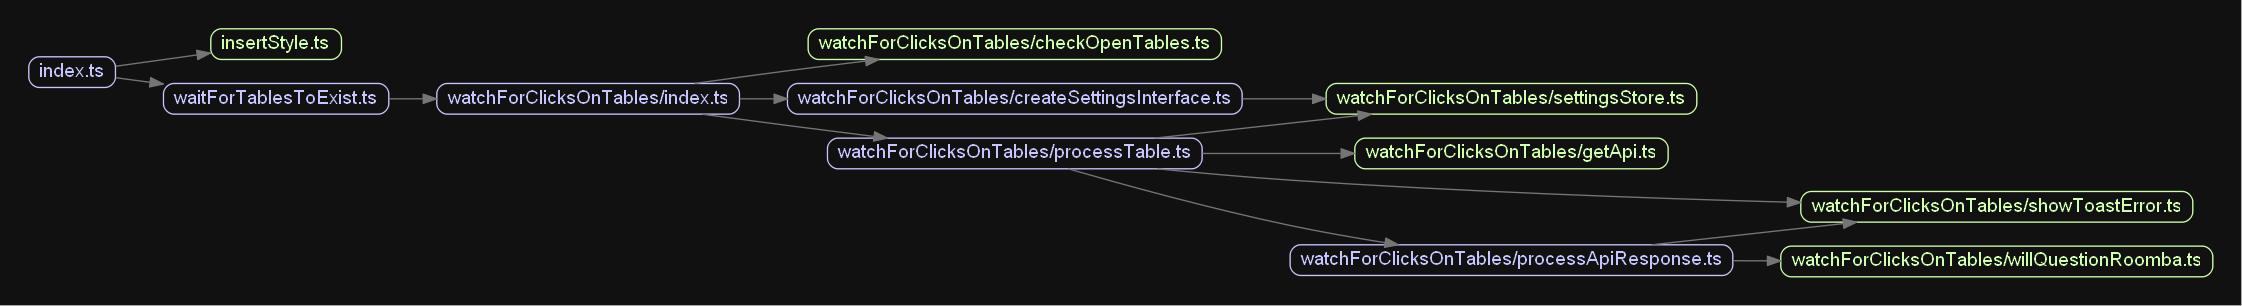
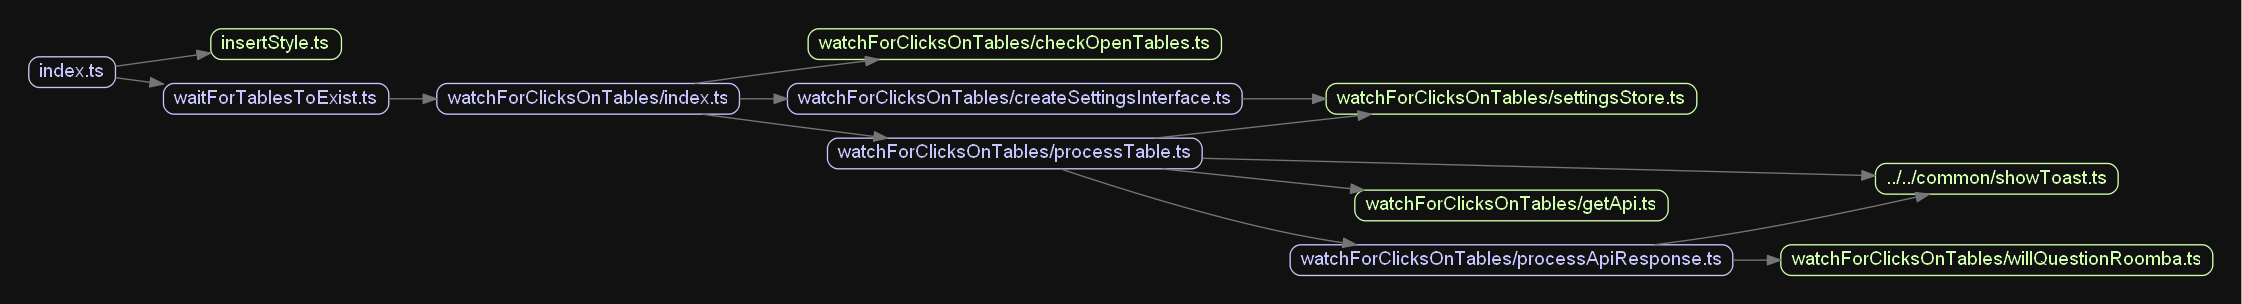
Import from /common instead

diff --git a/Hide-Roomba-Bound-Posts/src/types.d.ts b/Hide-Roomba-Bound-Posts/src/types.d.ts
@@ -2,16 +2,6 @@ type Settings = {
     enabled: boolean,
     showPostsWithReopenVotes: boolean,
 };
-type ToastSettings = {
-    transient: false;
-    type: 'danger';
-};
-type StackExchange = {
-    helpers: {
-        suggestedTransientTimeout(message: string, isToast: boolean): number;
-        showToast(message: string, settings: ToastSettings): void;
-    },
-};
 type ApiAnswer = {
     score: number;
 };

diff --git a/Hide-Roomba-Bound-Posts/src/index.ts b/Hide-Roomba-Bound-Posts/src/index.ts
@@ -1,11 +1,6 @@
+import '../../common/declareGlobalStackExchange';
 import { insertStyle } from './insertStyle';
 import { waitForTablesToExist } from './waitForTablesToExist';
-
-declare global {
-    interface Window {
-        StackExchange: StackExchange;
-    }
-}
 
 const youarehere = document.querySelector('.youarehere');
 if (youarehere && (youarehere as HTMLElement).dataset.value === 'delete') {

diff --git a/Hide-Roomba-Bound-Posts/src/watchForClicksOnTables/processApiResponse.ts b/Hide-Roomba-Bound-Posts/src/watchForClicksOnTables/processApiResponse.ts
@@ -1,4 +1,4 @@
-import { showToastError } from './showToastError';
+import { showToastError } from '../../../common/showToast';
 import { willQuestionRoomba } from './willQuestionRoomba';
 
 export const processApiResponse = ({ error_id, items }: ApiQuestionsResponse, trsByQuestionId: TrsByQuestionId, trs: HTMLTableRowElement[]) => {

diff --git a/Hide-Roomba-Bound-Posts/src/watchForClicksOnTables/processTable.ts b/Hide-Roomba-Bound-Posts/src/watchForClicksOnTables/processTable.ts
@@ -1,7 +1,7 @@
+import { showToastError } from '../../../common/showToast';
 import { getApi } from './getApi';
 import { processApiResponse } from './processApiResponse';
 import * as settingsStore from './settingsStore';
-import { showToastError } from './showToastError';
 
 const processedTables = new Set();
 /**
